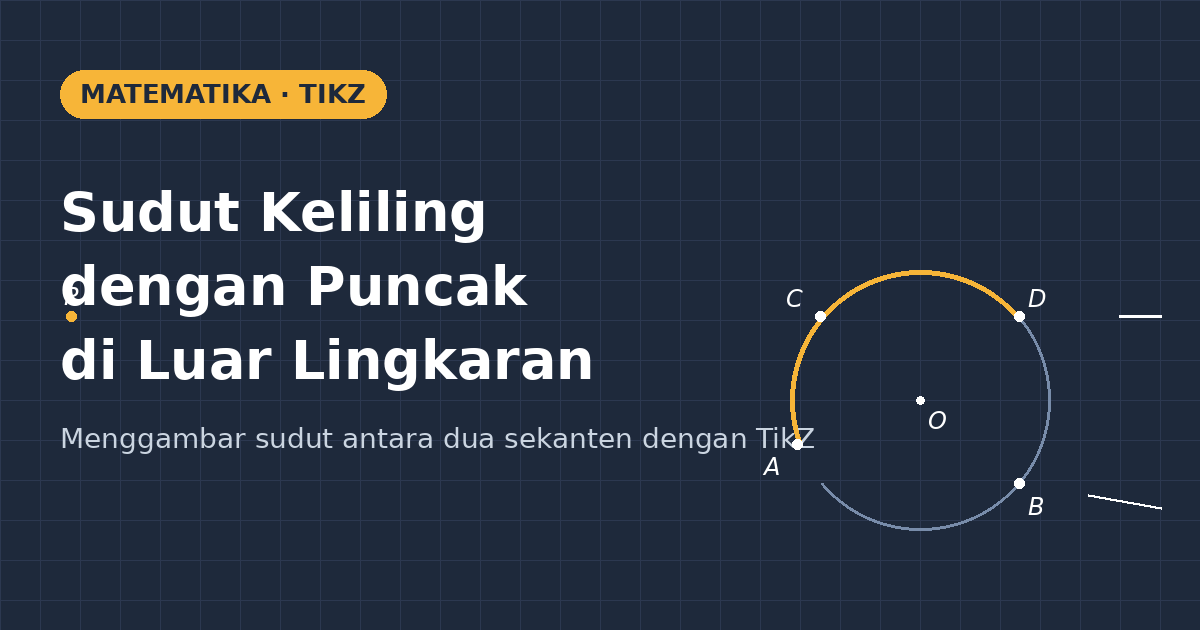
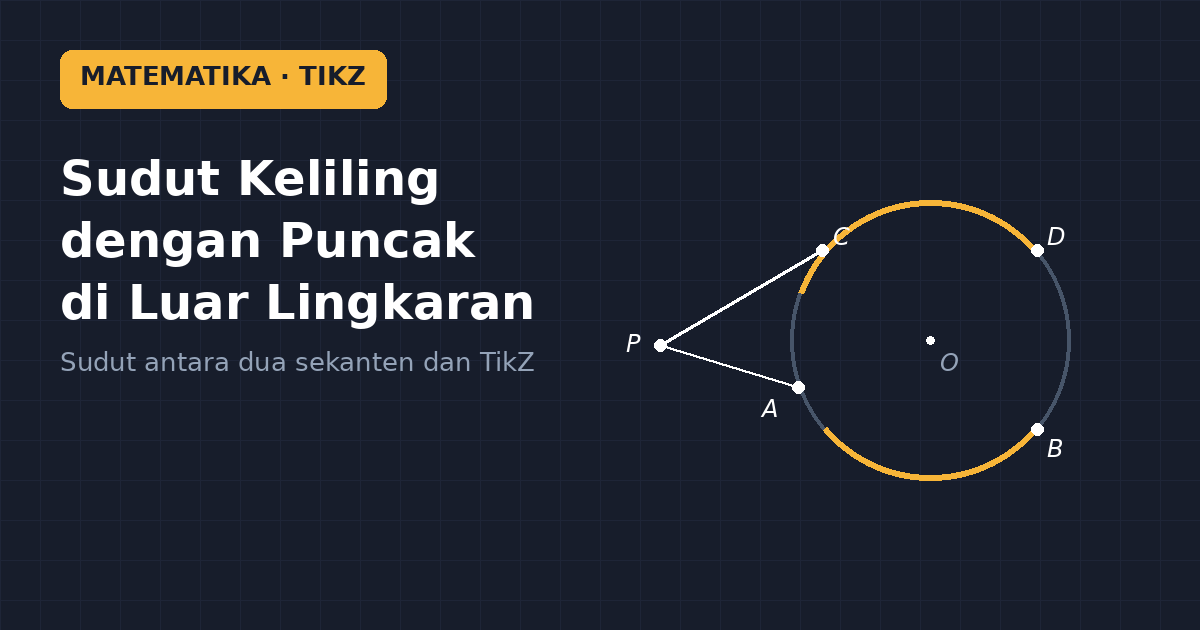
Artikel: Puncak yang Berpindah ke Luar — Sudut antara Dua Sekanten dengan TikZ

diff --git a/content/posts/tikz-sudut-keliling-sekanten/index.md b/content/posts/tikz-sudut-keliling-sekanten/index.md
@@ -1,0 +1,82 @@
+---
+title: "Puncak yang Berpindah ke Luar: Sudut antara Dua Sekanten dengan TikZ"
+date: 2026-11-02T20:30:00+07:00
+draft: false
+authors: ["Gunanto"]
+description: "Ketika puncak sudut pindah ke luar lingkaran, rumus sudut keliling tidak lagi berlaku. Catatan kelas tentang sudut antara dua sekanten, selisih busurnya, dan gambar TikZ yang jujur."
+featuredImage: "featured-image.png"
+tags: ["TikZ", "Lingkaran", "Sudut", "Geometri", "Bahan Ajar"]
+categories: ["Matematika", "TikZ"]
+math:
+  enable: true
+---
+
+Ketika materi lingkaran tiba di kelas VIII, ada satu momen yang selalu saya tunggu: hari ketika siswa bertanya, "Pak, kalau puncak sudutnya bukan di dalam lingkaran, gimana?" Pertanyaan itu muncul setahun lalu dari seorang siswa yang sedang menggambar tali busur di bukunya — garisnya luput keluar lingkaran, lalu dia memperpanjang sampai dua garis itu bertemu di luar. Dia menatap gambarnya, mengangkat tangan, dan melontarkan pertanyaan yang sebenarnya sudah menunggu di ujung materi itu sejak awal.
+
+<!--more-->
+
+## Ketika rumus lama menemui batasnya
+
+Sebelum hari itu, kami sudah cukup lama bermain dengan sudut keliling: sudut yang puncaknya berada *pada* lingkaran, besarnya setengah sudut pusat yang menghadap busur yang sama. Siswa kami juga sudah akrab dengan sudut pusat. Jadi ketika gambar si anak itu memperlihatkan dua garis yang berpotongan di luar lingkaran — masing-masing menembus lingkaran dua kali — kelas menjadi diam sesaat, karena puncak sudutnya kini berada di tempat yang tidak pernah kami bahas: *di luar* lingkaran.
+
+Dua garis yang menembus lingkaran seperti itu disebut **sekanten**. Sudut yang terbentuk di titik potongnya di luar lingkaran — sebut saja titiknya $P$ — tidak lagi dihitung dengan setengah busur yang dihadapinya. Coba saja: kalau kita memaksa rumus sudut keliling ke gambar itu, hasilnya tidak cocok dengan pengukuran busur derajat di kertas. Saya sengaja membiarkan beberapa siswa mencoba dan gagal, karena kegagalan kecil di kertas itu justru membuat mereka siap menerima rumus yang baru.
+
+Rumus yang benar terdengar hampir seperti lelucon: sudut antara dua sekanten sama dengan **setengah selisih** dua busur yang dipotong oleh kedua garis itu. Jika sekanten yang satu memotong lingkaran di $A$ dan $B$ (busur terdekat), dan sekanten yang lain di $C$ dan $D$ (busur terjauh), maka
+
+$$\angle DPA = \tfrac{1}{2}\left(\widehat{CD} - \widehat{AB}\right)$$
+
+Yang menarik, busur yang "dipilih" selalu dua busur yang *terkurung di antara* kedua sisi sudut: satu dekat dengan puncak, satu jauh di seberang. Selisih itulah yang dibagi dua.
+
+![](sudut-keliling-sekanten-diagram.png)
+*Puncak $P$ di luar lingkaran: $\angle DPA = \frac{1}{2}(\widehat{CD}-\widehat{AB})$ — setengah selisih busur dalam yang diapit kedua sisi sudut.*
+
+## Kenapa "selisih", bukan "jumlah"?
+
+Siswa yang teliti biasanya langsung curiga. "Kalau yang di dalam tadi jumlahnya dibagi dua, kenapa yang di luar malah selisihnya?" Pertanyaan bagus itu layak kami bedah bersama, dan cara paling sederhana yang saya pakai di kelas adalah dengan melihat sudut luar dan sudut dalam pada segitiga.
+
+Ambil titik bantu $Q$ di lingkaran, pada busur dekat — misalnya di seberang $P$. Segitiga $PQC$ (dengan $Q$ di lingkaran dan garis $QC$ terbentang) memiliki sudut luar di $Q$. Sudut luar segitiga, seperti sudah kami pelajari di bab sebelumnya, sama dengan jumlah dua sudut dalam yang tidak berdekatan dengannya. Dua sudut dalam itu ternyata keduanya adalah sudut keliling: yang satu menghadap busur $CD$, yang lain menghadap busur $AB$. Maka:
+
+$$\angle DPA = \angle QCD - \angle CQA = \tfrac{1}{2}\widehat{CD} - \tfrac{1}{2}\widehat{AB} = \tfrac{1}{2}\left(\widehat{CD} - \widehat{AB}\right)$$
+
+Ketika garis penghubung itu kusemut di papan, ada yang berseru kecil, "Oh, jadi dia cuma sudut luar segitiga yang di-dressing." Dan memang begitu. Rumus yang tampak baru ternyata hanya sudut luar segitiga yang mengenakan jubah lingkaran. Momen seperti ini yang membuat saya percaya bahwa geometri sekolah tidak diberikan sebagai hafalan, melainkan sebagai cerita yang saling bersambung.
+
+## Karena itu juga sebuah tantangan menggambar
+
+Di titik inilah kebiasaan lama saya menohok lagi: tahun-tahun awal mengajar, saya menggambar situasi ini bebas di papan. Lingkarannya dulu, lalu dua garis yang entah bagaimana sudutnya — dan hampir selalu angka-angka yang saya tulis di busur tidak konsisten dengan gambar. Siswa yang mengukur busur derajatnya akan menemukan $\widehat{CD} = 120°$ di gambar saya padahal tulisannya $100°$, dan selisih-bagi-dua itu tidak cocok dengan sudut di $P$ yang kelihatan jelas tidak sama. Gambar yang berbohong adalah gambar yang merusak kepercayaan murid terhadap matematika itu sendiri.
+
+Maka untuk lembar kerja dan slide, saya menggambar ulang situasinya dengan TikZ. Konsepnya sederhana: lingkaran berpusat $O$, empat titik potong diletakkan pada sudut polar yang saya pilih dengan sengaja — $C$ di $140°$, $D$ di $40°$, $A$ di $200°$, dan $B$ di $320°$ — sehingga busur $\widehat{CD} = 100°$ dan busur $\widehat{AB} = 120°$, dan sudut di puncak otomatis menjadi $\frac{1}{2}(120°-100°) = 10°$.
+
+```latex
+\coordinate (A) at (200:2);
+\coordinate (B) at (320:2);
+\coordinate (C) at (140:2);
+\coordinate (D) at (40:2);
+\coordinate (P) at (intersection of A--B and C--D);
+\draw[very thick, goldenrod]
+  (A) arc[start angle=200, end angle=320, radius=2];
+\draw[very thick, goldenrod]
+  (D) arc[start angle=40, end angle=140, radius=2];
+```
+
+Tiga hal yang saya pelajari dari gambar semacam ini:
+
+Pertama, **puncak $P$ tidak perlu saya tentukan manual**. Perintah `intersection of A--B and C--D` di TikZ menghitung perpotongan kedua sekanten untuk saya, dan gambar langsung jujur: sejauh apa pun titik-titik lingkaran digeser, $P$ selalu tepat di titik potongnya. Kedua, dua busur yang diapit sudut saya sorot dengan warna kuning (aksen `goldenrod`), supaya siswa langsung melihat *busur mana dua itu* sebelum saya menyebut kata "selisih". Ketiga, angka-angkanya bisa saya pilih supaya hasilnya bulat dan mudah: $120°-100°=20°$, dibagi dua jadi $10°$. Gambar dan hitungan saling menopang, bukan saling membantah.
+
+## Bandingkan dengan yang puncaknya di dalam
+
+Sesi kelas itu baru terasa lengkap ketika kami menaruh dua gambar berdampingan: sudut yang puncaknya di luar lingkaran, dan sudut yang puncaknya di dalam (dua tali busur yang berpotongan). Keduanya punya puncak di tempat "aneh", tapi rumusnya berbeda arah:
+
+$$\angle CQB = \tfrac{1}{2}\left(\widehat{AB} + \widehat{CD}\right) \qquad\text{(puncak di dalam: jumlah)}$$
+$$\angle DPA = \tfrac{1}{2}\left(\widehat{CD} - \widehat{AB}\right) \qquad\text{(puncak di luar: selisih)}$$
+
+Seorang siswa menemukan sendiri cara mengingatnya: "Kalau puncaknya di dalam, dia memegang dua busur sekaligus, jadi dijumlah. Kalau di luar, dia cuma 'mengintip' dari luar, busurnya saling mengurangi." Analogi itu mungkin tidak akademis, tapi dua minggu kemudian — di ulangan — lebih dari separuh kelas masih menulis rumusnya dengan benar. Cara mengingat milik mereka ternyata lebih awet daripada cara mengingat milik saya.
+
+## Pelajaran untuk saya
+
+Dari satu pertanyaan siswa tentang garis yang luput keluar lingkaran, kelas kami mendapat satu materi penuh yang sebenarnya sudah lama terselip di kurikulum namun sering saya lewatkan karena terburu-buru mengecek soal. Ada tiga hal yang saya simpan dari hari itu.
+
+Pertanyaan "aneh" dari siswa hampir selalu menunjuk ke tepi-batas sebuah konsep — dan tepi-batas justru tempat pemahaman diuji. Gambar yang jujur bukan pelengkap, melainkan bagian dari argumen: dengan koordinat yang saya kontrol, TikZ membuat busur dan sudut saling setia. Dan rumus baru selalu lebih mudah diterima kalau bisa diturunkan dari yang lama — sudut luar segitiga sudah mereka miliki, tinggal menghubungkannya.
+
+> 📎 **Berkas TikZ lengkap:** [tikz-sudut-keliling-sekanten.tex](tex/tikz-sudut-keliling-sekanten.tex) — siap kompilasi (butuh paket `tikz`).
+
+Kalau Bapak/Ibu juga pernah mengajari sudut ini, saya penasaran: cara apa yang dipakai supaya siswa tidak tertukar antara "jumlah" dan "selisih"? Di kelas kami, butuh satu pertanyaan siswa dan satu gambar yang jujur untuk akhirnya menemukan jalanannya.
